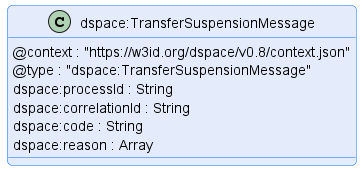
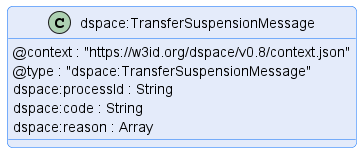
feat: remove correlationId from transfer and negotiation

Changed region(s): [[0.0, 0.0261, 1.0, 0.7843], [0.0, 0.7843, 1.0, 0.9935]]

diff --git a/transfer/transfer.process.protocol.md b/transfer/transfer.process.protocol.md
@@ -97,9 +97,9 @@ Providers should implement idempotent behavior for `TransferRequestMessage` base
 time. For example, until a transfer processes has completed and been archived after an implementation-specific expiration period. If a request for the given `@id` has already been
 received *and* the same consumer sent the original message, the provider should respond with an appropriate `DataAddressMessage`.
 
-Once a transfer process have been created, all associated callback messages must include a `correlationId` set to the `TransferRequestMessage` `@id` value.
+Once a transfer process have been created, all associated callback messages must include a `processId` set to the `TransferRequestMessage` `@id` value.
 
-Providers must include a `correlationId` property in the `TransferProcessMessage` with a value set to the `@id` of the corresponding `TransferRequestMessage`.
+Providers must include a `processId` property in the `TransferProcess` with a value set to the `@id` of the corresponding `TransferRequestMessage`.
 
 - The `dataAddress` contains a transport-specific endpoint address for pushing the asset. It may include a temporary authorization token.
 - Valid states of a `TransferProcess` are `REQUESTED`, `STARTED`, `TERMINATED`, `COMPLETED`, and `SUSPENDED`.
@@ -198,8 +198,7 @@ a terminal state. If the termination was due to an error, the sender may include
 
 #### Description
 
-The `TransferProcess` is an object returned by a consumer or provider indicating a
-successful state change happened.
+The `TransferProcess` is an object returned by a consumer or provider indicating a successful state change happened.
 
 ### ERROR - TransferError
 

diff --git a/transfer/transfer.process.binding.https.md b/transfer/transfer.process.binding.https.md
@@ -23,7 +23,6 @@ a [TransferError](./message/transfer-error.json) with the following properties:
 | Field             | Type          | Description                                                         |
 |-------------------|---------------|---------------------------------------------------------------------|
 | processId         | UUID          | The transfer process unique id.                                     |
-| correlationId     | UUID          | The correlation id if sent by the provider; otherwise not included. |
 | code              | string        | An optional implementation-specific error code.                     |
 | reasons           | Array[object] | An optional array of implementation-specific error objects.         |
 
@@ -56,7 +55,7 @@ the [TransferProcess](./message/transfer-process.json):
   "@context":  "https://w3id.org/dspace/v0.8/context.json",
   "@id": "urn:uuid:71f8dfab-9337-4e9d-a4c7-524e04443f16",
   "@type": "dspace:TransferProcess",
-  "dspace:correlationId": "urn:uuid:4a3ad65e-d78a-4200-a666-fc47aec32f2f",
+  "dspace:processId": "urn:uuid:4a3ad65e-d78a-4200-a666-fc47aec32f2f",
   "dspace:state": "REQUESTED"
 } 
 ```
@@ -106,7 +105,7 @@ the [TransferProcess](./message/transfer-process.json) message:
   "@context":  "https://w3id.org/dspace/v0.8/context.json",
   "@id": "urn:uuid:71f8dfab-9337-4e9d-a4c7-524e04443f16",
   "@type": "dspace:TransferProcess",
-  "dspace:correlationId": "urn:uuid:4a3ad65e-d78a-4200-a666-fc47aec32f2f",
+  "dspace:processId": "urn:uuid:4a3ad65e-d78a-4200-a666-fc47aec32f2f",
   "dspace:state": "REQUESTED"
 }
 
